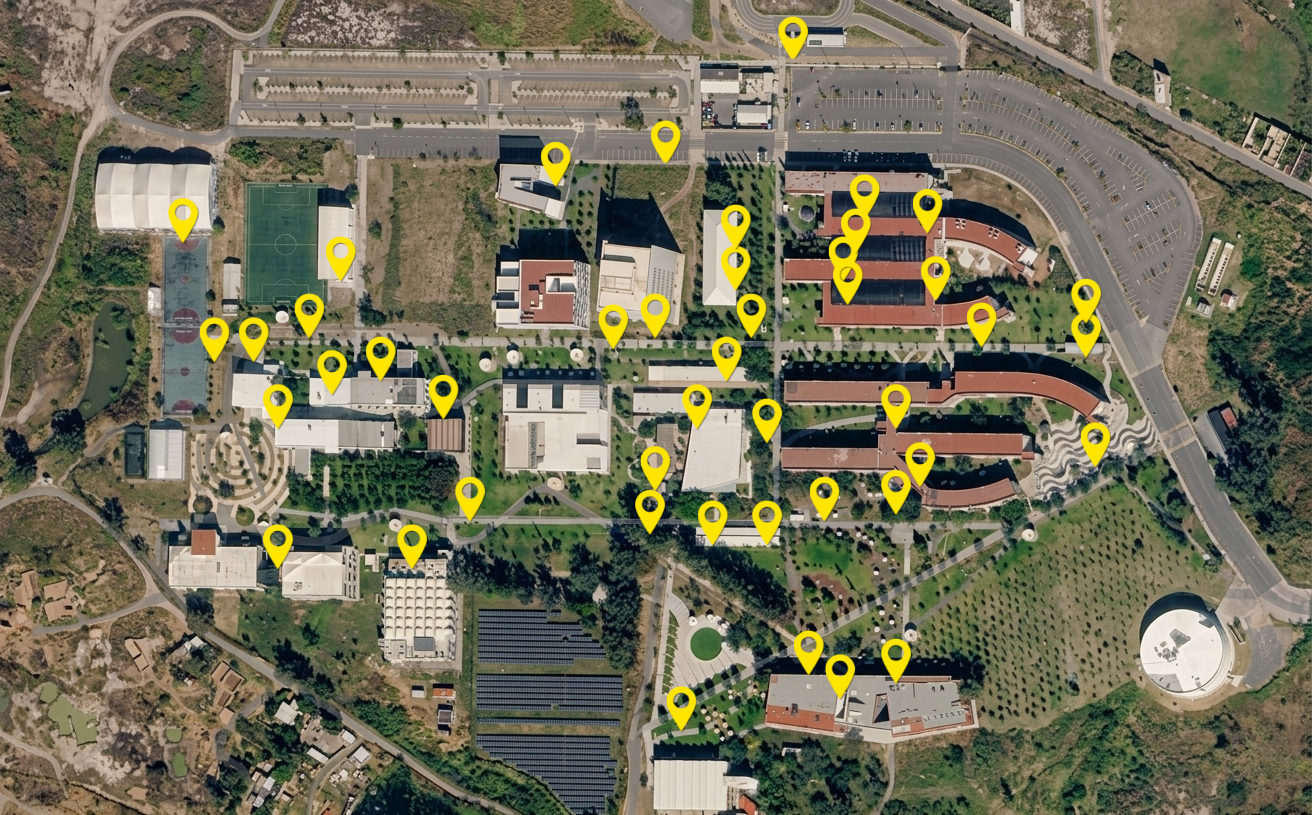
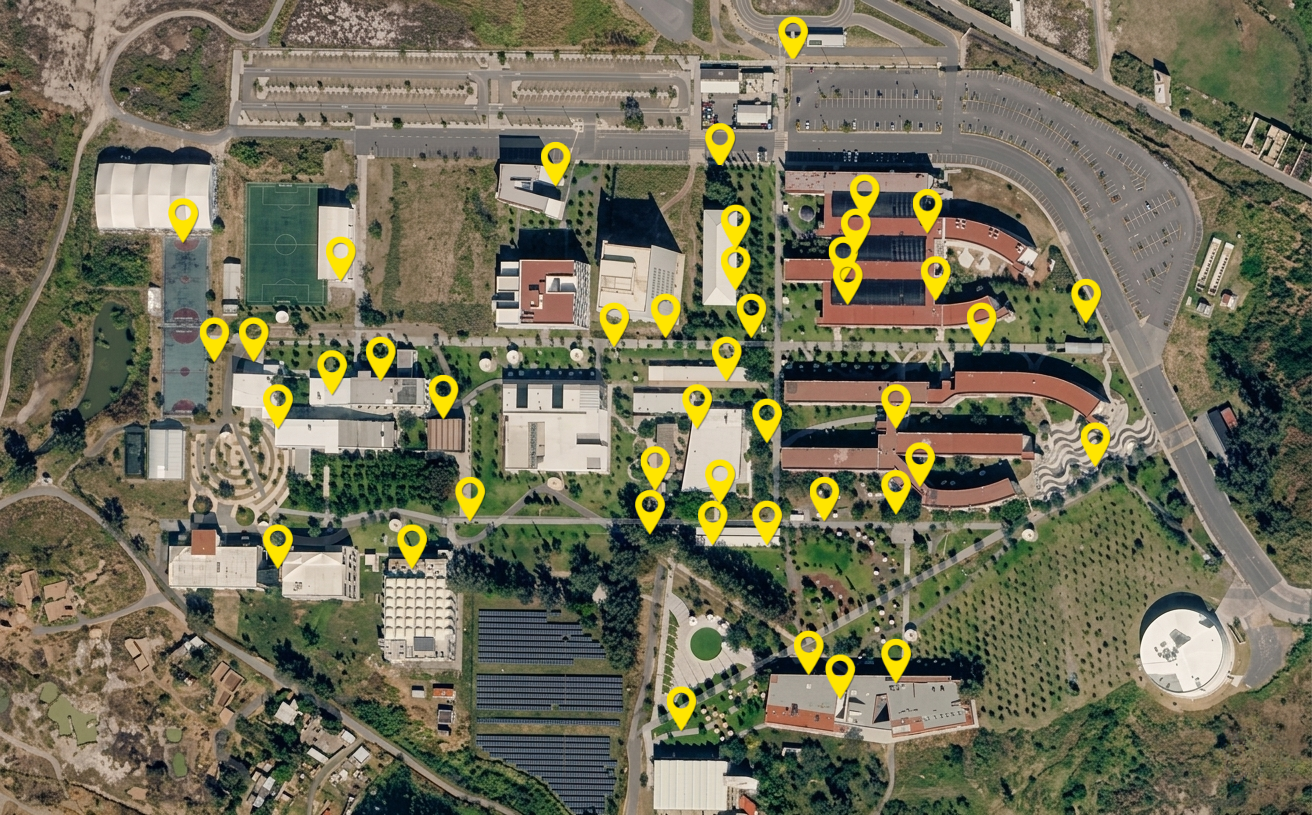
Update clase mapa.java
Lo que se realizo fue actualizar el mapa anterior por el que se encuentra ahora mismo deveido que ecnotre un fallo en el mapa en ubicaciones que no se encontraban y se implemento el funcionamieto de al momento de presionar en cualquier aguja en el mapa te mostrara que tipo de basura se puede tirar y en que parte se deve de tirar

diff --git a/Mapa.java b/Mapa.java
@@ -1,4 +1,3 @@
-// Código hecho por Giovanni
 import java.awt.*;
 import java.awt.event.*;
 import java.util.ArrayList;
@@ -7,13 +6,12 @@ import javax.swing.*;
 public class Mapa extends JPanel {
 
     private ImageIcon backgroundImage;
-    private ArrayList<Pin> listaPines; // Guardará la información de proporciones
+    private ArrayList<Pin> listaPines; 
 
-    // Clase interna para almacenar la información de cada botón
     class Pin {
         int id;
-        double proporcionX; // Porcentaje del ancho
-        double proporcionY; // Porcentaje del alto
+        double proporcionX; 
+        double proporcionY; 
         JButton boton;
 
         public Pin(int id, double proporcionX, double proporcionY, JButton boton) {
@@ -25,12 +23,10 @@ public class Mapa extends JPanel {
     }
 
     public Mapa() {
-        // Carga la imagen de fondo
         backgroundImage = new ImageIcon(getClass().getResource("/Imagenes/MAPA/MapaCutMapeado.png"));
         setLayout(null);
         listaPines = new ArrayList<>();
 
-        // LISTENER PARA REDIMENSIONAR (Detecta la barra lateral de PanelBase)
         this.addComponentListener(new ComponentAdapter() {
             @Override
             public void componentResized(ComponentEvent e) {
@@ -39,7 +35,7 @@ public class Mapa extends JPanel {
         });
 
         // ==========================================
-        // TUS PINES MAPEADOS EXACTOS
+        // TUS PINES MAPEADOS ACTUALIZADOS (1 al 47, sin el 41)
         // ==========================================
         agregarPin(1, 0.6161971830985915 , 0.8048268625393494);
         agregarPin(2, 0.6390845070422535 , 0.8405036726128017);
@@ -51,7 +47,7 @@ public class Mapa extends JPanel {
         agregarPin(8, 0.8356807511737089 , 0.5550891920251836);
         agregarPin(9, 0.6825117370892019 , 0.5141657922350472);
         agregarPin(10, 0.7482394366197183 , 0.40818467995802726);
-        agregarPin(11, 0.8280516431924883 , 0.4228751311647429);
+        agregarPin(11, 0.5487661574618097 , 0.6109358569926393); 
         agregarPin(12, 0.8257042253521126 , 0.37670514165792235);
         agregarPin(13, 0.715962441314554 , 0.34522560335781743);
         agregarPin(14, 0.6490610328638498 , 0.35047219307450156);
@@ -81,33 +77,25 @@ public class Mapa extends JPanel {
         agregarPin(38, 0.29107981220657275 , 0.44491080797481636);
         agregarPin(39, 0.2564553990610329 , 0.3252885624344176);
         agregarPin(40, 0.2535211267605634 , 0.4627492130115425);
-        agregarPin(41, 0.23591549295774647 , 0.385099685204617);
         agregarPin(42, 0.18955399061032863 , 0.4249737670514166);
         agregarPin(43, 0.2112676056338028 , 0.5078698845750262);
         agregarPin(44, 0.20892018779342722 , 0.6747114375655824);
         agregarPin(45, 0.16490610328638497 , 0.4197271773347324);
         agregarPin(46, 0.13791079812206572 , 0.2759706190975866);
+        agregarPin(47, 0.5488308115543329 , 0.1958041958041958); 
     }
 
-    // Método que crea el botón invisible y su evento
     private void agregarPin(int numeroBoton, double proporcionX, double proporcionY) {
         JButton boton = new JButton();
-        
-        // Hacemos el botón completamente invisible para que se vea el pin de la imagen
         boton.setOpaque(false);
         boton.setContentAreaFilled(false);
-        boton.setBorderPainted(false); // Ponlo en 'true' temporalmente si quieres ver la hitbox de los botones
+        boton.setBorderPainted(false); 
         
-        // Evento de confirmación visual
         boton.addActionListener(e -> {
-            JOptionPane.showMessageDialog(this, 
-                "Has presionado el pin número: " + numeroBoton, 
-                "Información del Mapa", 
-                JOptionPane.INFORMATION_MESSAGE);
+            mostrarInformacionBote(numeroBoton);
         });
         
         add(boton);
-        // Guardamos el botón en la lista para recalcularlo cuando se mueva la ventana
         listaPines.add(new Pin(numeroBoton, proporcionX, proporcionY, boton));
         
         if(getWidth() > 0) {
@@ -115,18 +103,117 @@ public class Mapa extends JPanel {
         }
     }
 
-    // Método que recalcula los píxeles cuando abres/cierras la barra lateral
+    private void mostrarInformacionBote(int numeroBoton) {
+        int categoria = getCategoriaPorPin(numeroBoton);
+        
+        if(categoria == 0) {
+            JOptionPane.showMessageDialog(this, 
+                "Información no disponible aún para el PIN " + numeroBoton, 
+                "Próximamente", JOptionPane.INFORMATION_MESSAGE);
+            return;
+        }
+
+        String[] materiales = getMaterialesCategoria(categoria);
+
+        JPanel panelDialogo = new JPanel();
+        panelDialogo.setLayout(new BoxLayout(panelDialogo, BoxLayout.Y_AXIS));
+
+        JLabel labelDesc = new JLabel("El PIN " + numeroBoton + " pertenece a los botes de la Categoría " + categoria + ".");
+        labelDesc.setFont(new Font("SansSerif", Font.ITALIC, 12));
+        labelDesc.setAlignmentX(Component.LEFT_ALIGNMENT);
+        panelDialogo.add(labelDesc);
+        
+        panelDialogo.add(Box.createRigidArea(new Dimension(0, 10))); 
+
+        JLabel titulo = new JLabel("Botes de basura disponibles:");
+        titulo.setFont(new Font("SansSerif", Font.BOLD, 16));
+        titulo.setAlignmentX(Component.LEFT_ALIGNMENT);
+        panelDialogo.add(titulo);
+        
+        panelDialogo.add(Box.createRigidArea(new Dimension(0, 10))); 
+
+        for (String material : materiales) {
+            JPanel fila = new JPanel(new FlowLayout(FlowLayout.LEFT, 10, 0));
+            fila.setAlignmentX(Component.LEFT_ALIGNMENT);
+
+            JPanel cuadroColor = new JPanel();
+            cuadroColor.setPreferredSize(new Dimension(20, 20));
+            cuadroColor.setBackground(getColorMateria(material));
+            cuadroColor.setBorder(BorderFactory.createLineBorder(Color.BLACK));
+
+            JLabel texto = new JLabel(material);
+            texto.setFont(new Font("SansSerif", Font.PLAIN, 14));
+
+            fila.add(cuadroColor);
+            fila.add(texto);
+            panelDialogo.add(fila);
+            panelDialogo.add(Box.createRigidArea(new Dimension(0, 5))); 
+        }
+
+        JOptionPane.showMessageDialog(this, panelDialogo, "Información del Reciclaje", JOptionPane.PLAIN_MESSAGE);
+    }
+
+    // ==========================================
+    // ASIGNACIÓN DE PINES A CATEGORÍAS (Final)
+    // ==========================================
+    private int getCategoriaPorPin(int pinId) {
+        return switch (pinId) {
+            case 6, 15, 19, 24, 30, 36, 40, 42 -> 1;
+            case 34 -> 2;
+            case 21, 22, 35, 37 -> 3;
+            case 1, 3, 14, 17, 20, 31, 32, 33, 47 -> 4; // Agregado el 33
+            case 39, 46 -> 5;
+            case 4, 27, 45 -> 7;
+            case 8, 10, 12 -> 8;
+            case 7, 13, 16, 18, 25, 26, 28, 29, 44 -> 9;
+            case 38, 43 -> 10;
+            case 2, 23 -> 11;
+            case 5, 11 -> 12;
+            case 9 -> 13;
+            default -> 0; 
+        };
+    }
+
+    // ==========================================
+    // MATERIALES POR CATEGORÍA
+    // ==========================================
+    private String[] getMaterialesCategoria(int categoria) {
+        return switch (categoria) {
+            case 1, 8 -> new String[]{"Metal", "Vidrio", "Plastico", "Dificil Reciclaje"};
+            case 2, 5, 10 -> new String[]{"Dificil Reciclaje", "Plastico", "Vidrio"};
+            case 3 -> new String[]{"Papel", "Vidrio", "Plastico"};
+            case 4, 9 -> new String[]{"Dificil Reciclaje", "Organica", "Plastico", "Vidrio"};
+            case 6 -> new String[]{"Papel", "Metal", "Plastico"};
+            case 7 -> new String[]{"Papel", "Organica", "Plastico", "Dificil Reciclaje"};
+            case 11 -> new String[]{"Dificil Reciclaje", "Vidrio", "Papel", "Metal", "Plastico"};
+            case 12 -> new String[]{"Dificil Reciclaje", "Vidrio", "Papel", "Metal", "Plastico", "Organica"};
+            case 13 -> new String[]{"Dificil Reciclaje", "Vidrio", "Papel", "Plastico"};
+            default -> new String[]{};
+        };
+    }
+
+    private Color getColorMateria(String material) {
+        String matLimpio = material.trim().toLowerCase();
+        
+        if(matLimpio.contains("dificil")) return Color.BLACK; 
+        if(matLimpio.contains("vidrio")) return Color.WHITE;
+        if(matLimpio.contains("metal")) return Color.GRAY;
+        if(matLimpio.contains("plastico")) return new Color(0, 0, 139); 
+        if(matLimpio.contains("papel")) return Color.YELLOW;
+        if(matLimpio.contains("organica")) return new Color(34, 139, 34); 
+        
+        return Color.LIGHT_GRAY; 
+    }
+
     private void actualizarPosiciones() {
         int anchoActual = getWidth();
         int altoActual = getHeight();
-        
-        int anchoBoton = 30; // Tamaño del área clicable
+        int anchoBoton = 30; 
         int altoBoton = 30;
 
         for (Pin p : listaPines) {
             int xPixel = (int) (anchoActual * p.proporcionX) - (anchoBoton / 2);
             int yPixel = (int) (altoActual * p.proporcionY) - (altoBoton / 2);
-            
             p.boton.setBounds(xPixel, yPixel, anchoBoton, altoBoton);
         }
     }
@@ -135,7 +222,6 @@ public class Mapa extends JPanel {
     protected void paintComponent(Graphics g) {
         super.paintComponent(g);
         if (backgroundImage != null) {
-            // Dibuja el fondo adaptándose al tamaño del JPanel
             g.drawImage(backgroundImage.getImage(), 0, 0, getWidth(), getHeight(), this);
         }
     }
